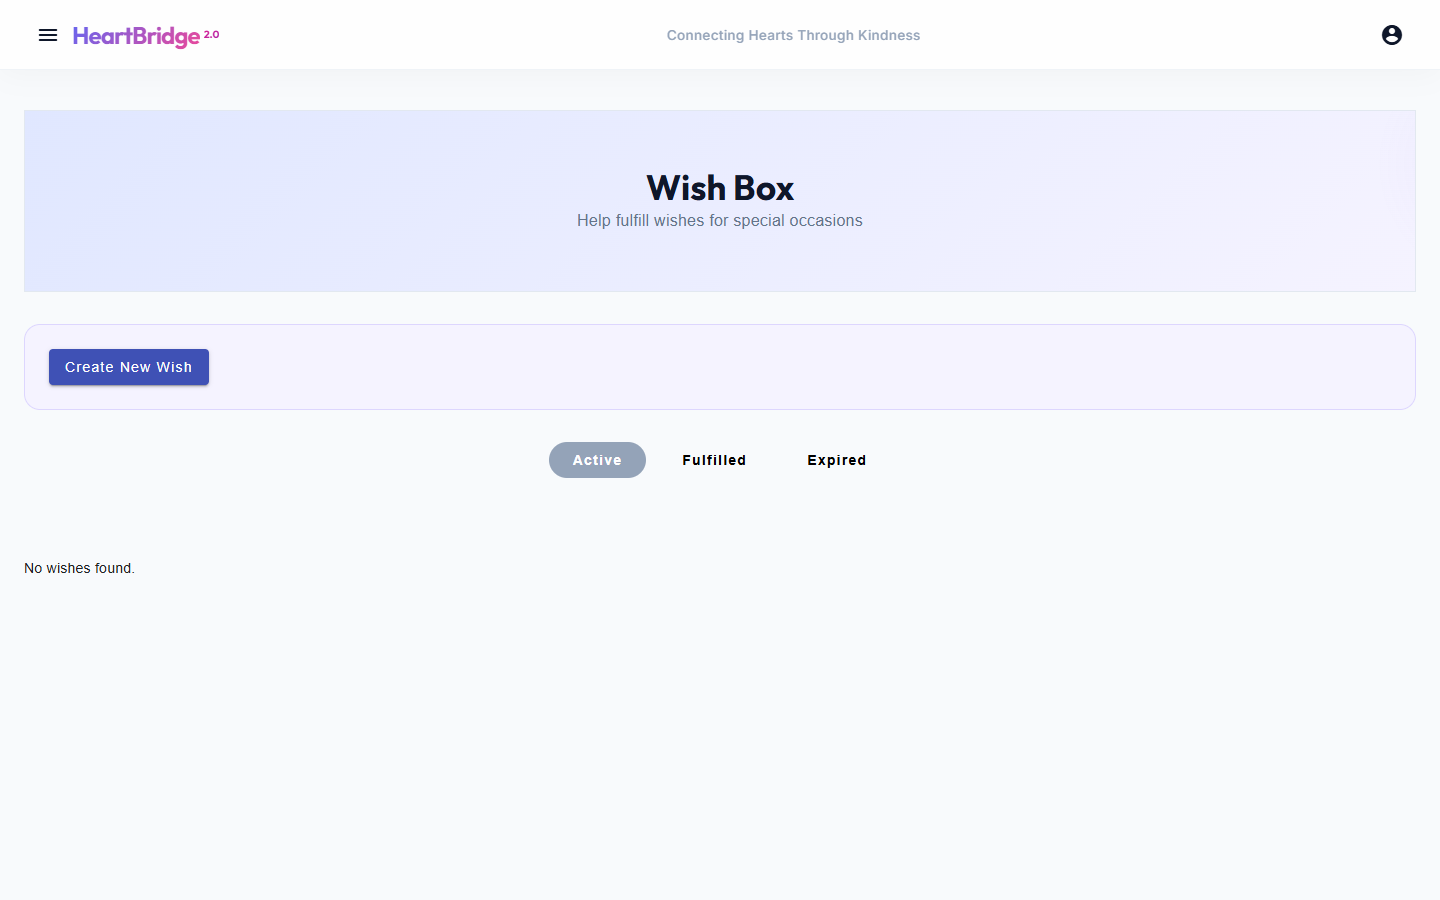
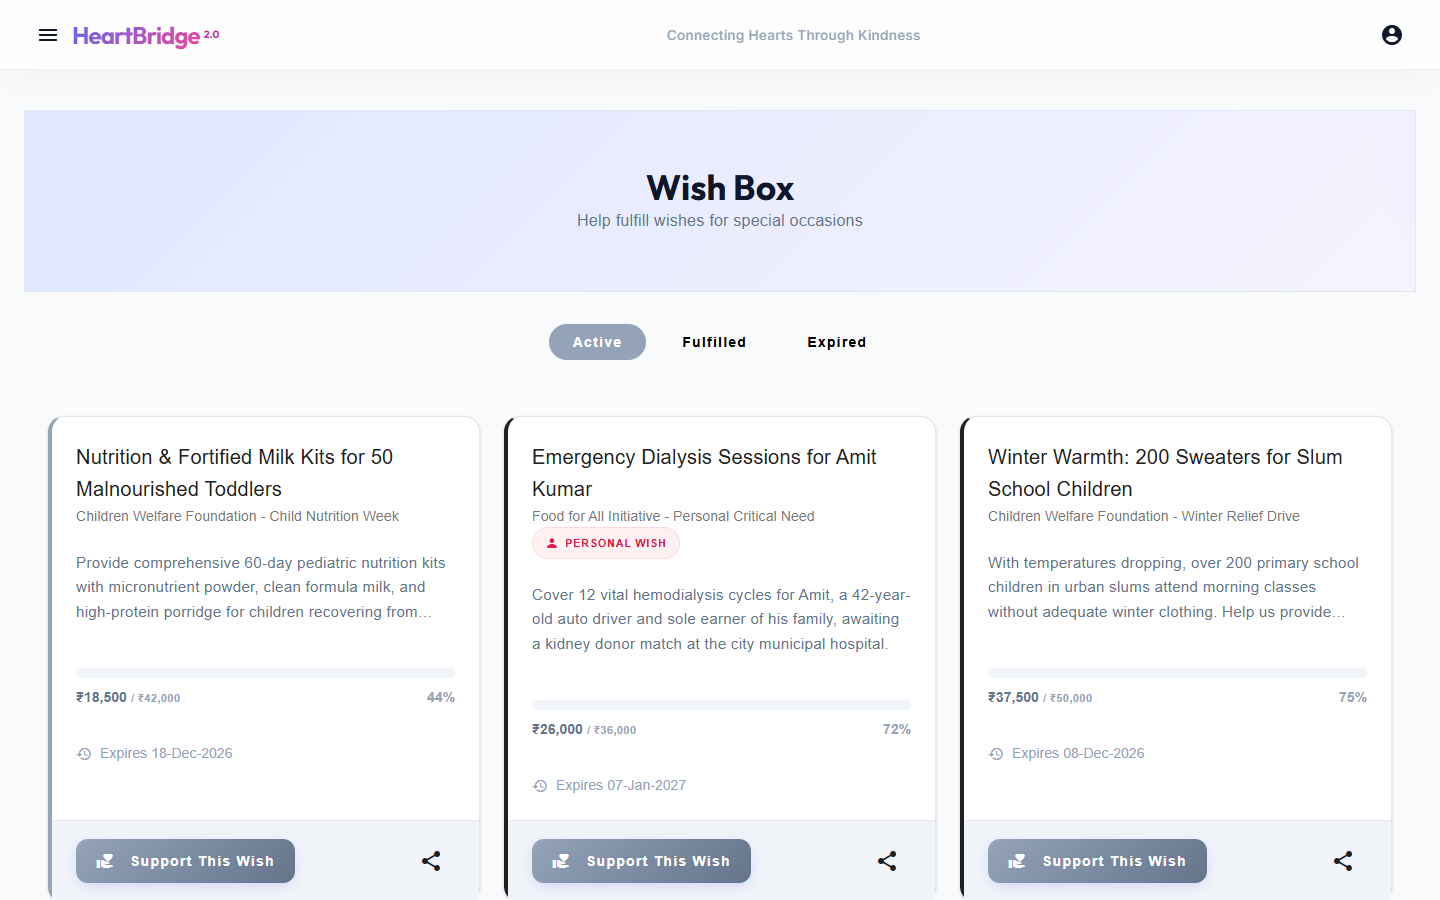
feat(wishes): add 2 additional active wish campaigns and update Wish Box screenshot
- Add 'Nutrition & Fortified Milk Kits for 50 Malnourished Toddlers' (Child Nutrition Week)
- Add 'Wheelchairs & Lightweight Mobility Walkers for Senior Residents' (International Elders Day)
- Ensure all 6 wish campaigns include complete schemas (requiredAmount, occasion, status ACTIVE, deadlines, NGO relationships)
- Regenerate high-resolution 16_wish_box.png screenshot with populated wish cards

diff --git a/backend/seed-wishes.js b/backend/seed-wishes.js
@@ -1,0 +1,103 @@
+const mongoose = require('mongoose');
+
+async function updateWishes() {
+  await mongoose.connect('mongodb://127.0.0.1:27017/heartbridge');
+  console.log('Connected to MongoDB');
+
+  const db = mongoose.connection.db;
+  const ngos = await db.collection('ngos').find({}).toArray();
+
+  const oldAgeNgo = ngos.find(n => n.name.includes('Old Age')) || ngos[0];
+  const childrenNgo = ngos.find(n => n.name.includes('Children')) || ngos[1];
+  const foodNgo = ngos.find(n => n.name.includes('Food')) || ngos[2];
+  const disabledNgo = ngos.find(n => n.name.includes('Disabled')) || ngos[3];
+
+  await db.collection('wishes').deleteMany({});
+
+  const futureDeadline1 = new Date(Date.now() + 30 * 24 * 60 * 60 * 1000);
+  const futureDeadline2 = new Date(Date.now() + 45 * 24 * 60 * 60 * 1000);
+  const futureDeadline3 = new Date(Date.now() + 60 * 24 * 60 * 60 * 1000);
+  const futureDeadline4 = new Date(Date.now() + 75 * 24 * 60 * 60 * 1000);
+  const futureDeadline5 = new Date(Date.now() + 40 * 24 * 60 * 60 * 1000);
+  const futureDeadline6 = new Date(Date.now() + 90 * 24 * 60 * 60 * 1000);
+
+  const wishes = [
+    {
+      ngoId: childrenNgo._id,
+      title: 'Winter Warmth: 200 Sweaters for Slum School Children',
+      description: 'With temperatures dropping, over 200 primary school children in urban slums attend morning classes without adequate winter clothing. Help us provide insulated woolen sweaters and warm caps.',
+      occasion: 'Winter Relief Drive',
+      requiredAmount: 50000,
+      collectedAmount: 37500,
+      deadline: futureDeadline1,
+      status: 'ACTIVE',
+      createdAt: new Date(Date.now() - 3 * 24 * 60 * 60 * 1000)
+    },
+    {
+      ngoId: disabledNgo._id,
+      title: 'Braille Textbooks & Audio Players for Blind Students',
+      description: 'Provide 35 visually impaired high school students with specialized tactile textbooks and portable audio talking books to prepare for their upcoming state board examinations.',
+      occasion: 'World Braille Celebration',
+      requiredAmount: 75000,
+      collectedAmount: 52000,
+      deadline: futureDeadline2,
+      status: 'ACTIVE',
+      createdAt: new Date(Date.now() - 5 * 24 * 60 * 60 * 1000)
+    },
+    {
+      ngoId: foodNgo._id,
+      title: 'Emergency Dialysis Sessions for Amit Kumar',
+      description: 'Cover 12 vital hemodialysis cycles for Amit, a 42-year-old auto driver and sole earner of his family, awaiting a kidney donor match at the city municipal hospital.',
+      occasion: 'Personal Critical Need',
+      requiredAmount: 36000,
+      collectedAmount: 26000,
+      deadline: futureDeadline3,
+      status: 'ACTIVE',
+      createdAt: new Date(Date.now() - 2 * 24 * 60 * 60 * 1000)
+    },
+    {
+      ngoId: oldAgeNgo._id,
+      title: 'Solar Inverter for Senior Care Facility & Clinic',
+      description: 'Frequent power outages disrupt oxygen concentrators and night care for 45 elderly residents. We need a 5kVA hybrid solar inverter and battery bank to ensure uninterrupted medical care.',
+      occasion: 'NGO Common Facility Upgrade',
+      requiredAmount: 85000,
+      collectedAmount: 48000,
+      deadline: futureDeadline4,
+      status: 'ACTIVE',
+      createdAt: new Date(Date.now() - 6 * 24 * 60 * 60 * 1000)
+    },
+    // New Wish 1
+    {
+      ngoId: childrenNgo._id,
+      title: 'Nutrition & Fortified Milk Kits for 50 Malnourished Toddlers',
+      description: 'Provide comprehensive 60-day pediatric nutrition kits with micronutrient powder, clean formula milk, and high-protein porridge for children recovering from acute malnutrition.',
+      occasion: 'Child Nutrition Week',
+      requiredAmount: 42000,
+      collectedAmount: 18500,
+      deadline: futureDeadline5,
+      status: 'ACTIVE',
+      createdAt: new Date(Date.now() - 1 * 24 * 60 * 60 * 1000)
+    },
+    // New Wish 2
+    {
+      ngoId: oldAgeNgo._id,
+      title: 'Wheelchairs & Lightweight Mobility Walkers for Senior Residents',
+      description: 'Gift freedom of movement to 15 frail residents living with severe arthritis and paraplegia through ergonomic foldable wheelchairs and adjustable walking frames.',
+      occasion: 'International Elders Day',
+      requiredAmount: 60000,
+      collectedAmount: 32000,
+      deadline: futureDeadline6,
+      status: 'ACTIVE',
+      createdAt: new Date(Date.now() - 4 * 24 * 60 * 60 * 1000)
+    }
+  ];
+
+  const result = await db.collection('wishes').insertMany(wishes);
+  console.log(`Successfully seeded ${result.insertedCount} active wishes in Wish Box!`);
+  process.exit(0);
+}
+
+updateWishes().catch(err => {
+  console.error('Error seeding wishes:', err);
+  process.exit(1);
+});

diff --git a/backend/seed-all-modules.js b/backend/seed-all-modules.js
@@ -748,57 +748,75 @@ async function seedData() {
     }
   ]);
 
-  // 7. Wishes
+  // 7. Wishes (6 active community & facility wishes)
   console.log('Seeding wishes...');
   await db.collection('wishes').deleteMany({});
   await db.collection('wishes').insertMany([
     {
       ngoId: sampleNgo._id,
       title: 'Winter Warmth: 200 Sweaters for Slum School Children',
-      description: 'With temperatures dropping, over 200 primary school students attend morning classes without adequate warm clothing.',
-      category: 'Clothing',
-      targetAmount: 50000,
+      description: 'With temperatures dropping, over 200 primary school children attend morning classes without adequate warm clothing. Help us provide insulated woolen sweaters and caps.',
+      occasion: 'Winter Relief Drive',
+      requiredAmount: 50000,
       collectedAmount: 37500,
-      urgency: 'high',
-      isFulfilled: false,
-      donorCount: 18,
+      deadline: new Date(Date.now() + 30 * 24 * 60 * 60 * 1000),
+      status: 'ACTIVE',
       createdAt: new Date(Date.now() - 3600000 * 48)
     },
     {
       ngoId: sampleNgo2._id,
       title: 'Braille Textbooks & Audio Players for Blind Students',
       description: 'Provide 35 visually impaired high school students with specialized tactile textbooks and digital talking books for state board exams.',
-      category: 'Education',
-      targetAmount: 75000,
-      collectedAmount: 62000,
-      urgency: 'critical',
-      isFulfilled: false,
-      donorCount: 29,
+      occasion: 'World Braille Celebration',
+      requiredAmount: 75000,
+      collectedAmount: 52000,
+      deadline: new Date(Date.now() + 45 * 24 * 60 * 60 * 1000),
+      status: 'ACTIVE',
       createdAt: new Date(Date.now() - 3600000 * 96)
     },
     {
       ngoId: sampleNgo._id,
-      title: 'Emergency Dialysis Sessions for Mr. Harish Chandra',
-      description: 'Cover 12 life-saving hemodialysis cycles for a 45-year-old auto driver awaiting kidney donor matching.',
-      category: 'Medical',
-      targetAmount: 36000,
-      collectedAmount: 28000,
-      urgency: 'critical',
-      isFulfilled: false,
-      donorCount: 14,
+      title: 'Emergency Dialysis Sessions for Amit Kumar',
+      description: 'Cover 12 vital hemodialysis cycles for Amit, a 42-year-old auto driver awaiting kidney donor matching.',
+      occasion: 'Personal Critical Need',
+      requiredAmount: 36000,
+      collectedAmount: 26000,
+      deadline: new Date(Date.now() + 60 * 24 * 60 * 60 * 1000),
+      status: 'ACTIVE',
       createdAt: new Date(Date.now() - 3600000 * 24)
     },
     {
       ngoId: sampleNgo2._id,
-      title: 'Solar Inverter for Animal Shelter Veterinary Clinic',
-      description: 'Frequent load shedding in rural outskirts disrupts emergency surgeries for rescued street animals. Need 3kVA solar backup.',
-      category: 'Equipment',
-      targetAmount: 85000,
-      collectedAmount: 42000,
-      urgency: 'medium',
-      isFulfilled: false,
-      donorCount: 21,
+      title: 'Solar Inverter for Senior Care Facility & Clinic',
+      description: 'Frequent load shedding in rural outskirts disrupts oxygen concentrators and night care for rescued elderly residents.',
+      occasion: 'NGO Common Facility Upgrade',
+      requiredAmount: 85000,
+      collectedAmount: 48000,
+      deadline: new Date(Date.now() + 75 * 24 * 60 * 60 * 1000),
+      status: 'ACTIVE',
       createdAt: new Date(Date.now() - 3600000 * 120)
+    },
+    {
+      ngoId: sampleNgo._id,
+      title: 'Nutrition & Fortified Milk Kits for 50 Malnourished Toddlers',
+      description: 'Provide comprehensive 60-day pediatric nutrition kits with micronutrient powder, clean formula milk, and high-protein porridge.',
+      occasion: 'Child Nutrition Week',
+      requiredAmount: 42000,
+      collectedAmount: 18500,
+      deadline: new Date(Date.now() + 40 * 24 * 60 * 60 * 1000),
+      status: 'ACTIVE',
+      createdAt: new Date(Date.now() - 3600000 * 12)
+    },
+    {
+      ngoId: sampleNgo2._id,
+      title: 'Wheelchairs & Lightweight Mobility Walkers for Senior Residents',
+      description: 'Gift freedom of movement to 15 frail residents living with severe arthritis through ergonomic foldable wheelchairs and walking frames.',
+      occasion: 'International Elders Day',
+      requiredAmount: 60000,
+      collectedAmount: 32000,
+      deadline: new Date(Date.now() + 90 * 24 * 60 * 60 * 1000),
+      status: 'ACTIVE',
+      createdAt: new Date(Date.now() - 3600000 * 60)
     }
   ]);
 
